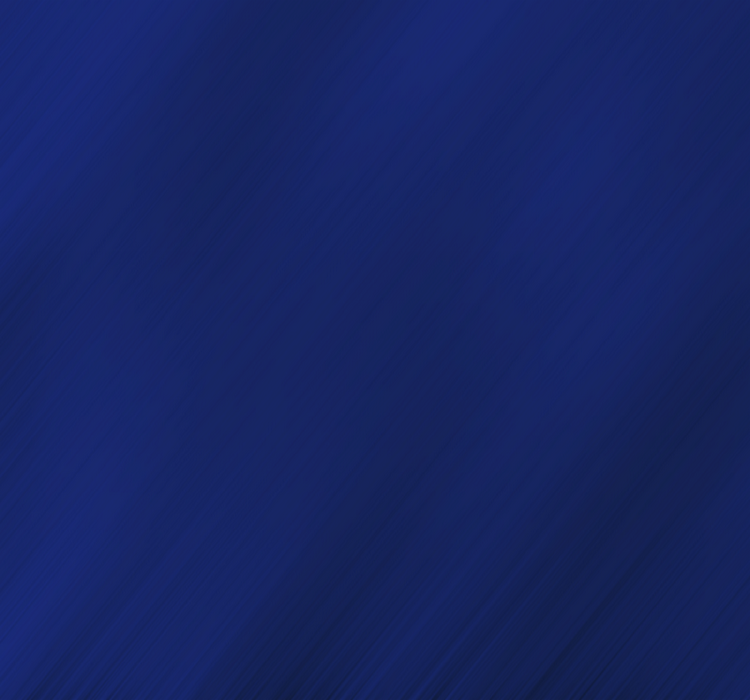
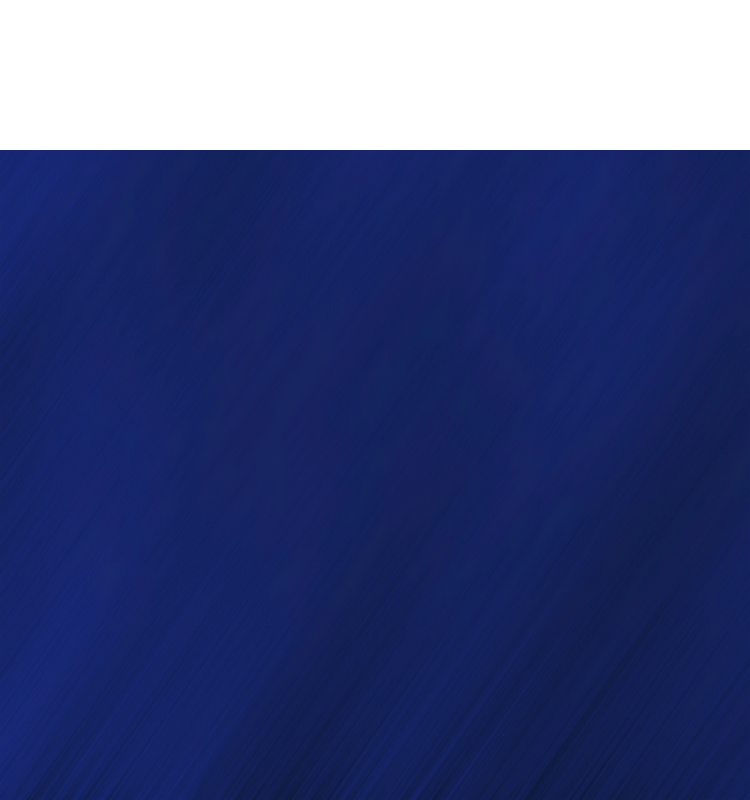
Turn by turn protection added Piece position added

Changed region(s): [[0.0, 0.0, 1.0, 0.21]]

diff --git a/WebContent/js/salon.js b/WebContent/js/salon.js
@@ -6,7 +6,14 @@ var GAME = {
 		nbCols: 7,
 		circleSize: 105,
 		canvasWidth: 752,
-		speedInMs: 100
+		speedInMs: 100,
+		player: null,
+		currentPlayer: null,
+		currentPosCursorX: -1,
+		oldPosCursorX: -1,
+		redPiece: new Image(),
+		yellowPiece: new Image(),
+		isPlayerOneTurn: true
 	},
 	
 	init: function () {
@@ -15,19 +22,51 @@ var GAME = {
 		GAME.drawImage("background_grid", 0, 0);
 		
 		GAME.env.socket.onmessage = GAME.onMessage;
-		
-		canvas.addEventListener("click", function (event) {
-			var x = event.pageX - $(canvas).offset().left;
-			var posCursorX = Math.floor(x / (GAME.env.canvasWidth / GAME.env.nbCols));
-		    var gameAction = {
-		            action: "playGame",
-		            posX: posCursorX,
-		            idGame: GAME.getIdGame()
-		    };
-		    
-		    GAME.env.socket.send(JSON.stringify(gameAction));
-		});
-		
+		GAME.env.redPiece.src = "img/red.png";
+		GAME.env.yellowPiece.src = "img/yellow.png";
+
+		if ($("#p1").text() !== "" || $("#p2").text() !== "") {
+			canvas.addEventListener("mousemove", function (event) {
+				if (GAME.env.player == GAME.env.currentPlayer) {
+					var x = event.pageX - $(canvas).offset().left;
+					var posCursorX = Math.floor(x / (GAME.env.canvasWidth / GAME.env.nbCols));
+					GAME.env.currentPosCursorX = posCursorX;
+					if (GAME.env.ol1dPosCursorX === -1) {
+						GAME.env.oldPosCursorX = posCursorX;
+					}
+					if (GAME.env.oldPosCursorX !== posCursorX) {
+						GAME.clearImage(GAME.env.oldPosCursorX * GAME.env.circleSize + 60, 88);
+						GAME.env.oldPosCursorX = posCursorX;
+					}
+						
+					GAME.drawLoadedImage(GAME.env.isPlayerOneTurn ? GAME.env.redPiece : GAME.env.yellowPiece,
+										 posCursorX * GAME.env.circleSize + 10, 40);
+				}
+			});
+			
+			canvas.addEventListener("click", function (event) {
+				if (GAME.env.player == GAME.env.currentPlayer) {
+					var x = event.pageX - $(canvas).offset().left;
+					var posCursorX = Math.floor(x / (GAME.env.canvasWidth / GAME.env.nbCols));
+				    var gameAction = {
+				            action: "playGame",
+				            posX: posCursorX,
+				            idGame: GAME.getIdGame()
+				    };
+				    
+				    GAME.env.socket.send(JSON.stringify(gameAction));
+				}
+				else {
+					alert("Ce n'est pas votre tour !");
+				}
+			});
+		}
+		else {
+			canvas.addEventListener("click", function (event) {
+				alert("Mode spectateur !");
+			});
+		}
+
 		$(document).on("click", "#launchGame", function (event) {
 			event.preventDefault();
 			$(this).remove();
@@ -48,9 +87,10 @@ var GAME = {
 		    };
 		    
 		    GAME.env.socket.send(JSON.stringify(gameAction));
-		}, 1000);
+		}, 200);
 		
 		if ($("#p1").text() === "") {
+			GAME.env.player = $("#p2").text();
 			setTimeout(function () {
 				    var gameAction = {
 				            action: "refreshRoomGame",
@@ -58,7 +98,11 @@ var GAME = {
 				    };
 				    
 				    GAME.env.socket.send(JSON.stringify(gameAction));
-			}, 2000);
+			}, 200);
+		}
+		else {
+			GAME.env.player = $("#p1").text();
+			$("#p1Div").removeClass("vHidden");
 		}
 	},
 	
@@ -66,16 +110,18 @@ var GAME = {
 		var game = JSON.parse(event.data);
 		if (game.idGame === GAME.getIdGame()) {
 			if (game.action === "updateGame" || game.action === "initGame") {
+				GAME.env.currentPlayer = game.p;
+				GAME.env.isPlayerOneTurn = game.playerOneTurn;
 				//GAME.drawImage("background_grid", 0, 0);
 				for (var i = 0; i < GAME.env.nbRows; ++i) {
 					for (var j = 0; j < GAME.env.nbCols; ++j) {
 						var index = i + j * GAME.env.nbCols;
 						if (game[index] === "empty") {
-							GAME.drawCircle(j * GAME.env.circleSize + 60, i * GAME.env.circleSize + 110); 
+							GAME.drawCircle(j * GAME.env.circleSize + 60, i * GAME.env.circleSize + 210); 
 						}
 						else {
 							if (game.lastPosX != j || game.lastPosY != i) {
-								GAME.drawImage(game[index], j * GAME.env.circleSize + 10, i * GAME.env.circleSize + 60);
+								GAME.drawImage(game[index], j * GAME.env.circleSize + 10, i * GAME.env.circleSize + 160);
 							}
 						}
 					}
@@ -100,19 +146,37 @@ var GAME = {
 			if (game.action === "refreshRoomGame") {
 				$("#p1").text(game.p1);
 				$("#p2").text(game.p2);
-				$("#p2Div").removeClass("hidden");
+				$("#p1Div").removeClass("vHidden");
+				$("#p2Div").removeClass("vHidden");
 				$("#launchGame").removeClass("disabled");
 			}
 		}
 	},
 	
-	drawCircle: function (posX, posY) {
+	clearImage: function (posX, posY) {
 		GAME.env.ctx.beginPath();
 		GAME.env.ctx.arc(posX, posY, 50, 0, 2 * Math.PI);
+		GAME.env.ctx.lineWidth = 5;
+		GAME.env.ctx.strokeStyle = "white";
 		GAME.env.ctx.fillStyle = "white";
 		GAME.env.ctx.fill();
 		GAME.env.ctx.stroke();
 		GAME.env.ctx.closePath();
+	},
+	
+	drawCircle: function (posX, posY) {
+		GAME.env.ctx.beginPath();
+		GAME.env.ctx.arc(posX, posY, 50, 0, 2 * Math.PI);
+		GAME.env.ctx.lineWidth = 1;
+		GAME.env.ctx.strokeStyle = "black";
+		GAME.env.ctx.fillStyle = "white";
+		GAME.env.ctx.fill();
+		GAME.env.ctx.stroke();
+		GAME.env.ctx.closePath();
+	},
+	
+	drawLoadedImage: function (img, posX, posY) {
+		GAME.env.ctx.drawImage(img, posX, posY);
 	},
 	
 	drawImage: function (pieceName, posX, posY) {
@@ -131,11 +195,12 @@ var GAME = {
 	},
 	
 	drawDescendingPiece: function (pieceName, lastPosX, lastPosY) {
-		GAME.drawImage(pieceName, lastPosX * GAME.env.circleSize + 10, 60);
+		GAME.clearImage(GAME.env.currentPosCursorX * GAME.env.circleSize + 60, 88);
+		GAME.drawImage(pieceName, lastPosX * GAME.env.circleSize + 10, 160);
 		for (var i = 0; i < lastPosY; ++i) {
 			var x = lastPosX * GAME.env.circleSize;
 			var y = i * GAME.env.circleSize;
-			GAME.drawAndClearPiece(pieceName, x + 10, y + 165, x + 60, y + 110, i);
+			GAME.drawAndClearPiece(pieceName, x + 10, y + 265, x + 60, y + 210, i);
 		}
 	},
 	

diff --git a/WebContent/js/rooms.js b/WebContent/js/rooms.js
@@ -28,7 +28,7 @@ var ROOMS = {
 		    };
 		    
 		    ROOMS.env.socket.send(JSON.stringify(roomAction));
-		}, 1000);
+		}, 200);
 	},
 	
 	onMessage: function (event) {
@@ -46,7 +46,7 @@ var ROOMS = {
 		var $elem = $("<tr></tr>");
 		$elem.append("<td>" + room.idRoom + "</td>");
 		$elem.append("<td>" + room.nbPlayers + "/2</td>");
-        $elem.append('<td><a href="#" class="btn btn-primary">Regarder</a></td>');
+        $elem.append('<td><a id="spec' + room.idRoom + '" href="#" class="btn btn-primary">Regarder</a></td>');
 		var status = room.nbPlayers == 1 ? "" : " disabled";
 		$elem.append('<td><a id="' + room.idRoom + '" href="#" class="btn btn-success' + status + '">Rejoindre</a></td>');
 		
@@ -64,6 +64,11 @@ var ROOMS = {
 		    };
 		    
 			ROOMS.env.socket.send(JSON.stringify(roomAction));
+		});
+		
+		$(document).on("click", "#spec" + room.idRoom, function () {
+		    $("form>input[name='idGame']").val(room.idRoom);
+		    $("form").submit();
 		});
 	},
 	

diff --git a/WebContent/css/style.css b/WebContent/css/style.css
@@ -57,7 +57,7 @@ filter:progid:DXImageTransform.Microsoft.Shadow(color=#656565, Direction=NaN, St
 	margin-top:20px;
 }
 
-.hidden
+.vHidden
 {
-	display: none;
+	visibility: hidden;
 }

diff --git a/src/orsay/lpper/game/Game.java b/src/orsay/lpper/game/Game.java
@@ -17,7 +17,7 @@ public class Game
 		_id = id;
 		_gridGame = new Grid(Constants.C_NB_ROWS, Constants.C_NB_COLS);
 		_p1 = new Player(p1, Color.red);
-		_p1 = new Player(p2, Color.yellow);
+		_p2 = new Player(p2, Color.yellow);
 	}
 	
 	public void play(int aPosX)
@@ -31,6 +31,7 @@ public class Game
 	public JsonObject getStateGame()
 	{
 		return _gridGame.getStateGrid().add("playerOneTurn", _playerOneTurn)
+									   .add("p", _playerOneTurn ? _p1.getId() : _p2.getId())
 									   .add("idGame", _id)
 									   .build();
 	}
